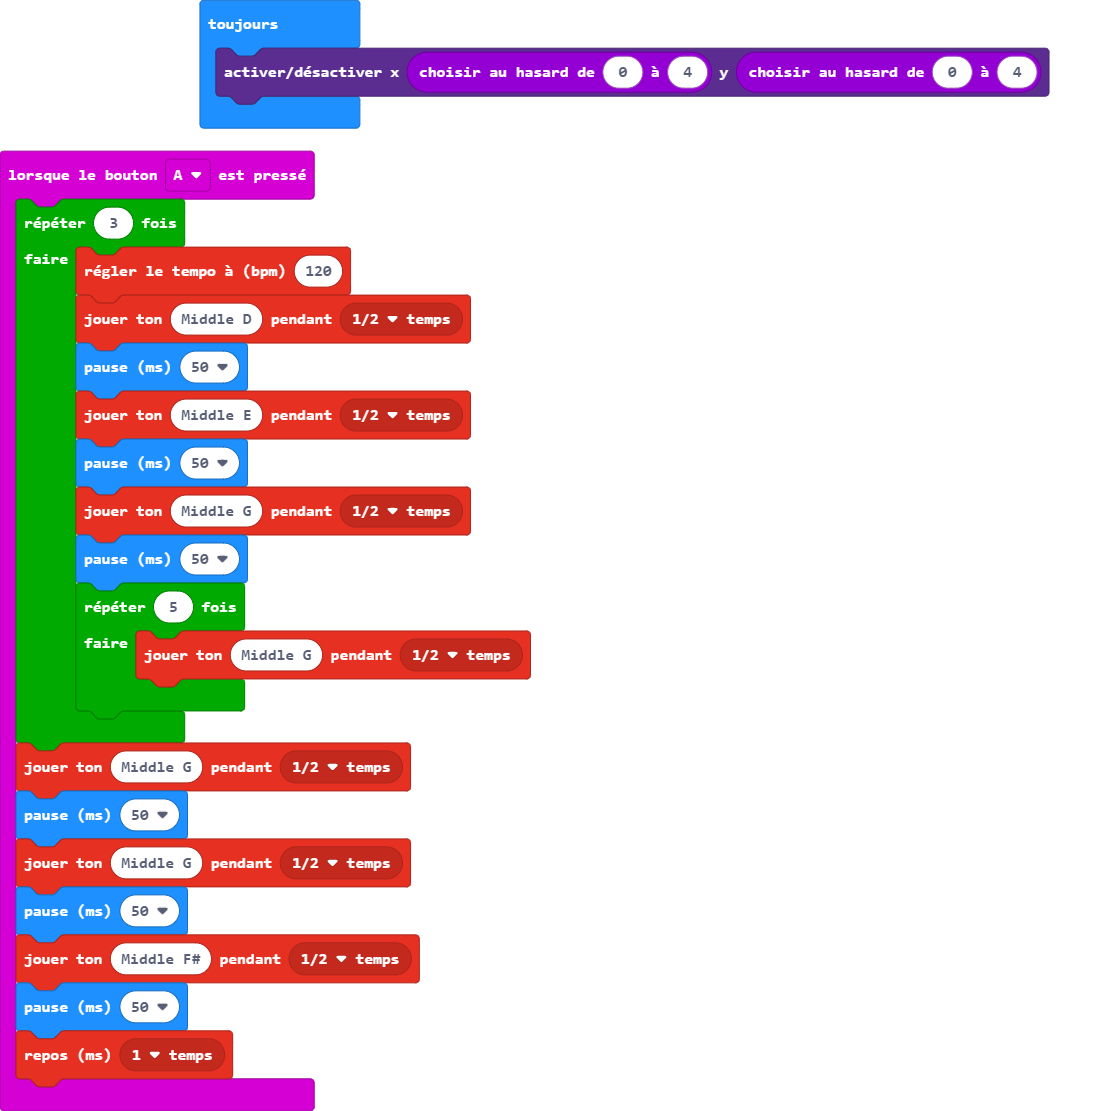
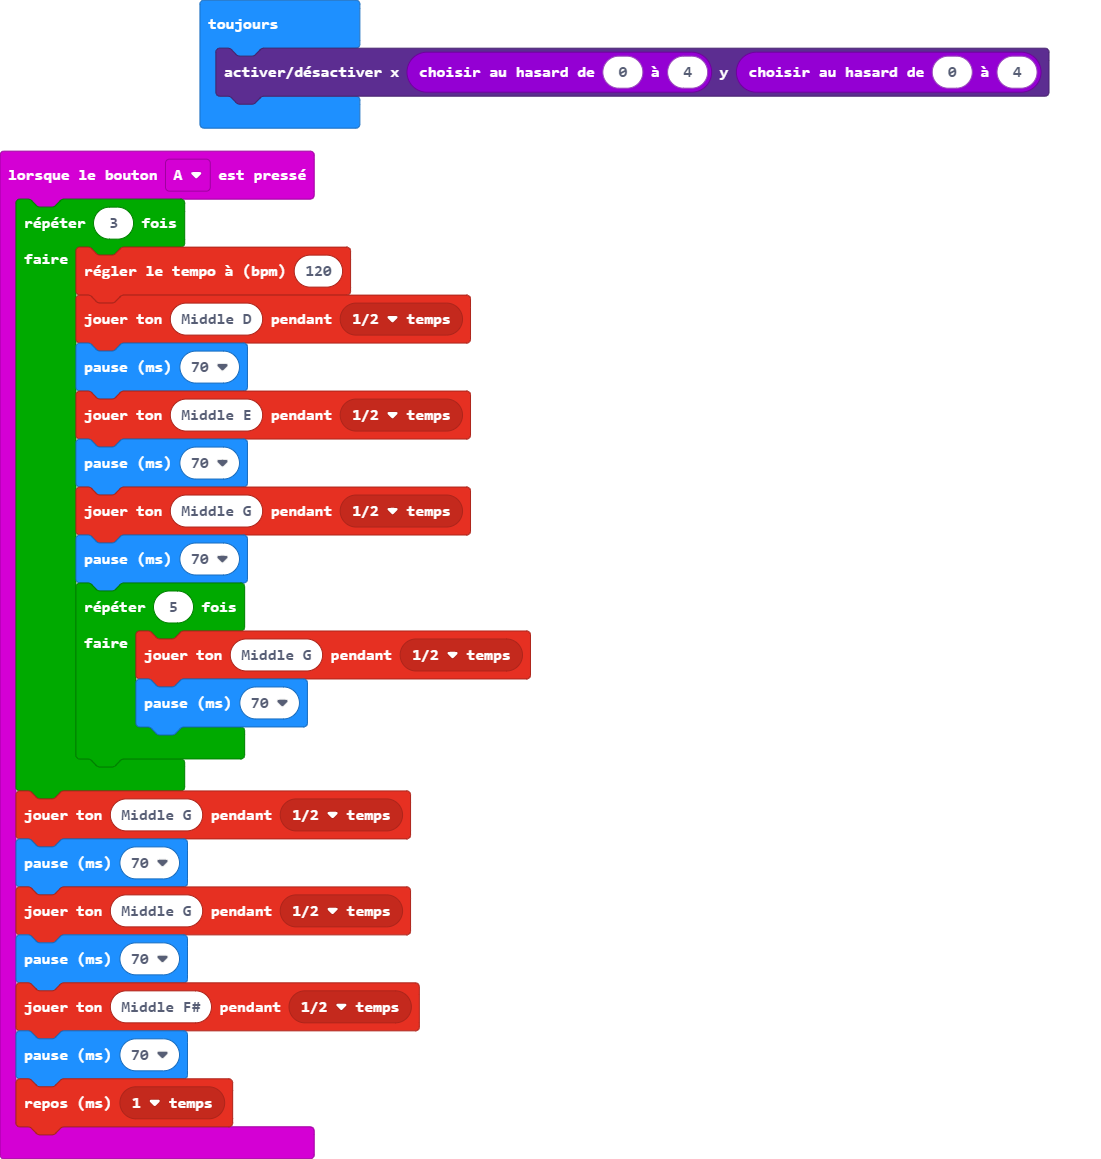
Mise à jour main.blocks, main.ts

Changed region(s): [[0.0, 0.0, 0.9573, 0.9793]]

diff --git a/main.ts b/main.ts
@@ -2,21 +2,22 @@ input.onButtonPressed(Button.A, function () {
     for (let index = 0; index < 3; index++) {
         music.setTempo(120)
         music.playTone(294, music.beat(BeatFraction.Half))
-        basic.pause(50)
+        basic.pause(70)
         music.playTone(330, music.beat(BeatFraction.Half))
-        basic.pause(50)
+        basic.pause(70)
         music.playTone(392, music.beat(BeatFraction.Half))
-        basic.pause(50)
+        basic.pause(70)
         for (let index = 0; index < 5; index++) {
             music.playTone(392, music.beat(BeatFraction.Half))
+            basic.pause(70)
         }
     }
     music.playTone(392, music.beat(BeatFraction.Half))
-    basic.pause(50)
+    basic.pause(70)
     music.playTone(392, music.beat(BeatFraction.Half))
-    basic.pause(50)
+    basic.pause(70)
     music.playTone(370, music.beat(BeatFraction.Half))
-    basic.pause(50)
+    basic.pause(70)
     music.rest(music.beat(BeatFraction.Whole))
 })
 basic.forever(function () {
